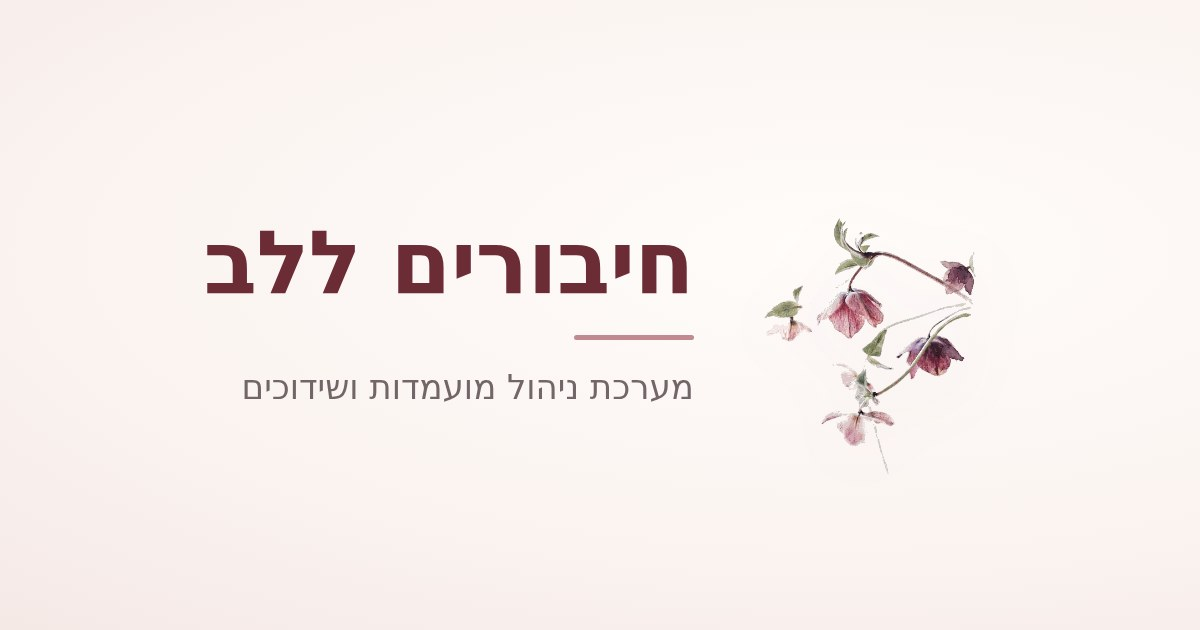
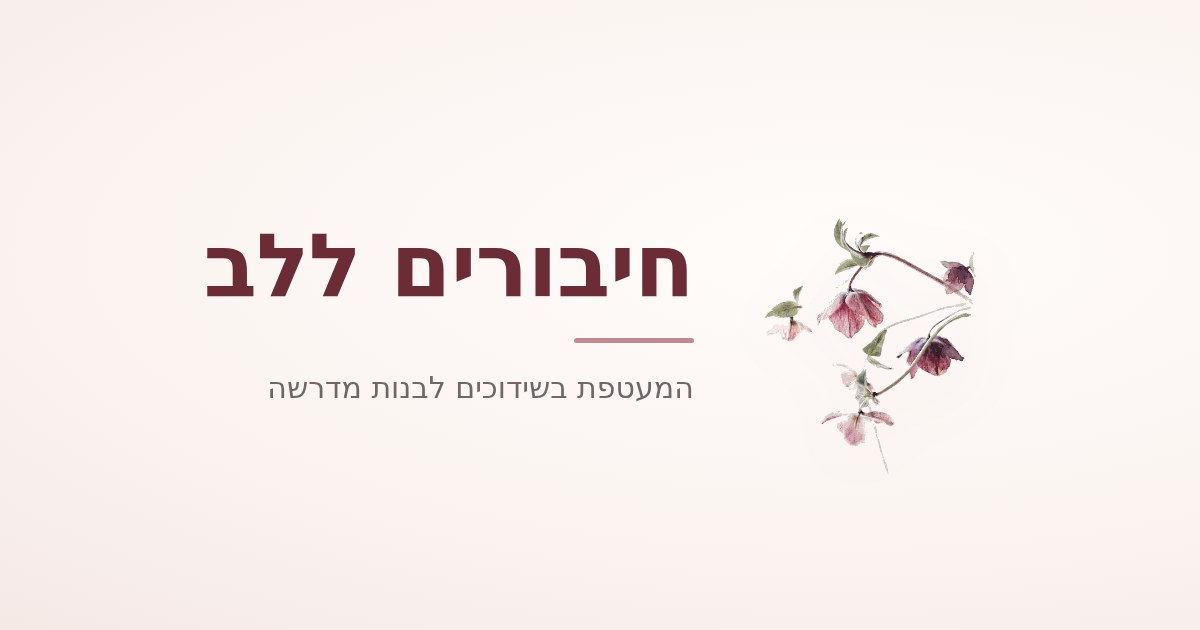
תת-כותרת חדשה, פרטי קבוצה בטופס, וכרטיסי בנות בגלילה לרוחב
1. תת-הכותרת "המעטפת בשידוכים לבנות מדרשה" בראש העמוד, ב-metadata
   ובתגי og/twitter של שני העמודים. תמונת השיתוף (og-image) נוצרה
   מחדש עם הטקסט החדש - היא תמונה, אז שינוי טקסט מחייב רינדור מחדש.

2. ראש הטופס החיצוני: שדה השגרירה הוחלף בפרטי זיהוי הקבוצה - שם
   המדרשה ומיקום, אשת קשר וטלפון. שלושתם חובה עם אותה ולידציה,
   כי בלעדיהם לקבוצה אין עוגן. הפרטים נשמרים על כל כרטיס שנשלח,
   ושם המדרשה משמש גם כשם הקבוצה - כך השיוך הקבוצתי, לוח הראיונות
   וה-PDF עובדים על הקבוצה מיד עם קליטתה, בלי שיוך ידני.

3. לוח הבקרה: הבנות מוצגות בגלילה לרוחב, ומעל כל קבוצה כותרת בולטת
   עם שם המדרשה והמיקום, אשת הקשר וטלפון עם חיוג/וואטסאפ/SMS.
   קבוצת "ללא קבוצה" נשארת בסוף כדי שאף מועמדת לא תיפול בין הכיסאות,
   ובנות שהצטרפו לאחרונה מסומנות בתגית "חדשה".
   פרטי הקבוצה נגזרים מהכרטיסים עצמם - אין אוסף נוסף ואין מיגרציה.

נבדק בדפדפן על נתוני דמה: 16 בדיקות עברו, אומתה גלילה אופקית בפועל
(1060px תוכן מול 430px מסך), אפס 404, אפס שגיאות קונסול ואפס שגיאות JS.

Claude-Session: https://claude.ai/code/session_016ePfyW6jUSUQKJZdwKT4DQ

diff --git a/components/AmbassadorForm.jsx b/components/AmbassadorForm.jsx
@@ -18,11 +18,18 @@ const FIELDS = [
   { key: "phone", label: "מספר טלפון", type: "tel", inputMode: "tel" },
 ];
 
+// פרטי הקבוצה שבראש הטופס - הם עוגנת הקבוצה שתחתיה נרשמות הבנות.
+const GROUP_FIELDS = [
+  { key: "midrasha", label: "שם המדרשה ומיקום", placeholder: "לדוגמה: מדרשת אור · ירושלים" },
+  { key: "contactName", label: "אשת קשר", placeholder: "שם מלא" },
+  { key: "contactPhone", label: "טלפון", type: "tel", inputMode: "tel" },
+];
+
 const DRAFT_KEY = `${STORAGE_PREFIX}ambassador_draft`;
 const blank = () => ({ uid: `g${Date.now()}${Math.random().toString(36).slice(2, 7)}` });
 
 export default function AmbassadorForm() {
-  const [ambassador, setAmbassador] = useState("");
+  const [group, setGroup] = useState({ midrasha: "", contactName: "", contactPhone: "" });
   const [girls, setGirls] = useState([blank()]);
   const [errors, setErrors] = useState({});
   const [sending, setSending] = useState(false);
@@ -37,7 +44,7 @@ export default function AmbassadorForm() {
         const d = JSON.parse(raw);
         if (d && Array.isArray(d.girls) && d.girls.length) {
           setGirls(d.girls);
-          setAmbassador(d.ambassador || "");
+          if (d.group) setGroup({ midrasha: "", contactName: "", contactPhone: "", ...d.group });
         }
       }
     } catch (e) {}
@@ -45,9 +52,9 @@ export default function AmbassadorForm() {
 
   useEffect(() => {
     try {
-      localStorage.setItem(DRAFT_KEY, JSON.stringify({ ambassador, girls }));
+      localStorage.setItem(DRAFT_KEY, JSON.stringify({ group, girls }));
     } catch (e) {}
-  }, [ambassador, girls]);
+  }, [group, girls]);
 
   function setField(i, key, value) {
     setGirls((g) => g.map((x, idx) => (idx === i ? { ...x, [key]: value } : x)));
@@ -81,6 +88,9 @@ export default function AmbassadorForm() {
 
   function validate() {
     const errs = {};
+    GROUP_FIELDS.forEach((f) => {
+      if (!String(group[f.key] || "").trim()) errs[`group:${f.key}`] = true;
+    });
     girls.forEach((g, i) => {
       AMBASSADOR_REQUIRED.forEach((k) => {
         if (!String(g[k] || "").trim()) errs[`${i}:${k}`] = true;
@@ -110,7 +120,11 @@ export default function AmbassadorForm() {
         phone: g.phone.trim(),
         photo: g.photo || "",
       }));
-      await addCandidatesFromAmbassador(payload, ambassador.trim());
+      await addCandidatesFromAmbassador(payload, {
+        midrasha: group.midrasha.trim(),
+        contactName: group.contactName.trim(),
+        contactPhone: group.contactPhone.trim(),
+      });
       try {
         localStorage.removeItem(DRAFT_KEY);
       } catch (e) {}
@@ -157,14 +171,34 @@ export default function AmbassadorForm() {
         </p>
       </div>
 
-      <div className="card mb-5">
-        <label className="field-label">שם השגרירה (לא חובה)</label>
-        <input
-          className="field-input"
-          value={ambassador}
-          onChange={(e) => setAmbassador(e.target.value)}
-          placeholder="כדי שנדע ממי הגיעו הכרטיסים"
-        />
+      <div className="card mb-5 space-y-4">
+        <div className="border-b border-sand pb-2">
+          <h2 className="font-bold text-brandDark">פרטי הקבוצה</h2>
+          <p className="text-xs text-ink/55">הבנות שיוזנו מטה ישויכו לקבוצה הזו.</p>
+        </div>
+        {GROUP_FIELDS.map((f) => {
+          const bad = !!errors[`group:${f.key}`];
+          return (
+            <div key={f.key} data-invalid={bad ? "true" : "false"}>
+              <label className="field-label">
+                {f.label} <span className="text-brand">*</span>
+              </label>
+              <input
+                className={`field-input ${bad ? "border-brand ring-2 ring-brand/20" : ""}`}
+                type={f.type || "text"}
+                inputMode={f.inputMode}
+                placeholder={f.placeholder || ""}
+                value={group[f.key] || ""}
+                onChange={(e) => {
+                  const v = e.target.value;
+                  setGroup((g) => ({ ...g, [f.key]: v }));
+                  setErrors((er) => (er[`group:${f.key}`] ? { ...er, [`group:${f.key}`]: false } : er));
+                }}
+              />
+              {bad && <p className="mt-1 text-sm font-medium text-brand">שדה חובה</p>}
+            </div>
+          );
+        })}
       </div>
 
       {girls.map((g, i) => (

diff --git a/components/GroupsBoard.jsx b/components/GroupsBoard.jsx
@@ -1,0 +1,82 @@
+"use client";
+
+import PhoneActions from "./PhoneActions";
+import { groupInfo } from "../lib/store";
+
+// לוח הבקרה: לכל קבוצה כותרת בולטת ונקייה - שם המדרשה והמיקום,
+// אשת הקשר והטלפון - ומתחתיה הבנות בגלילה לרוחב.
+const NO_GROUP = "__nogroup__";
+
+export default function GroupsBoard({ candidates, newIds, renderCard }) {
+  // קיבוץ הבנות לפי הקבוצה שאליה שויכו
+  const map = new Map();
+  candidates.forEach((c) => {
+    const key = c.group || NO_GROUP;
+    if (!map.has(key)) map.set(key, []);
+    map.get(key).push(c);
+  });
+
+  const groups = [...map.keys()]
+    .filter((k) => k !== NO_GROUP)
+    .sort((a, b) => a.localeCompare(b, "he"))
+    .map((name) => ({ key: name, info: groupInfo(name), list: map.get(name) }));
+
+  if (map.has(NO_GROUP)) {
+    groups.push({
+      key: NO_GROUP,
+      info: { midrasha: "ללא קבוצה", contactName: "", contactPhone: "" },
+      list: map.get(NO_GROUP),
+      plain: true,
+    });
+  }
+
+  if (groups.length === 0) {
+    return <p className="text-sm text-ink/40">אין עדיין מועמדות במאגר.</p>;
+  }
+
+  return (
+    <div className="space-y-7">
+      {groups.map(({ key, info, list, plain }) => (
+        <section key={key}>
+          {/* כותרת הקבוצה - בליטה נקייה מעל כרטיסיות הבנות */}
+          <div
+            className={`rounded-2xl px-4 py-3 ${
+              plain ? "bg-sand/50" : "border border-sand bg-parchment"
+            }`}
+          >
+            <div className="flex items-start justify-between gap-3">
+              <h2 className={`text-lg font-bold ${plain ? "text-ink/70" : "text-brandDark"}`}>
+                {info.midrasha}
+              </h2>
+              <span className="shrink-0 rounded-full bg-brand px-2.5 py-0.5 text-xs font-bold text-white">
+                {list.length}
+              </span>
+            </div>
+
+            {(info.contactName || info.contactPhone) && (
+              <div className="mt-2 flex flex-wrap items-center gap-x-3 gap-y-1.5">
+                {info.contactName && (
+                  <span className="text-sm font-semibold text-ink">{info.contactName}</span>
+                )}
+                {info.contactPhone && (
+                  <PhoneActions phone={info.contactPhone} name={info.contactName} small />
+                )}
+              </div>
+            )}
+          </div>
+
+          {/* הבנות בגלילה לרוחב */}
+          <div className="-mx-4 mt-3 overflow-x-auto px-4 pb-1">
+            <div className="flex w-max gap-3">
+              {list.map((c) => (
+                <div key={c.id} className="w-[248px] shrink-0">
+                  {renderCard(c, newIds.has(c.id))}
+                </div>
+              ))}
+            </div>
+          </div>
+        </section>
+      ))}
+    </div>
+  );
+}

diff --git a/lib/store.js b/lib/store.js
@@ -259,6 +259,20 @@ export async function assignCandidatesBulk(ids, patch) {
   logAction(`${ids.length} מועמדות — ${parts.join(" · ")}`);
 }
 
+// פרטי הקבוצה (מדרשה, אשת קשר, טלפון) נלקחים מהכרטיסים עצמם -
+// כל הבנות של אותה שליחה נושאות את אותם פרטים.
+export function groupInfo(name) {
+  const withInfo = cache.candidates.find(
+    (c) => c.group === name && (c.contactName || c.contactPhone || c.midrasha)
+  );
+  return {
+    name,
+    midrasha: withInfo?.midrasha || name,
+    contactName: withInfo?.contactName || "",
+    contactPhone: withInfo?.contactPhone || "",
+  };
+}
+
 // רשימת הקבוצות הקיימות במאגר, לפי מה שכבר שויך בפועל.
 export function existingGroups() {
   const names = new Set();
@@ -279,10 +293,18 @@ export async function saveInterviewSummary(id, text) {
   return res;
 }
 
-// קליטת מועמדות מהטופס החיצוני של השגרירה - כמה כרטיסים נפרדים בשליחה אחת.
-export async function addCandidatesFromAmbassador(list, ambassador) {
+// קליטת מועמדות מהטופס החיצוני - כמה כרטיסים נפרדים בשליחה אחת.
+// פרטי הקבוצה (מדרשה, אשת קשר וטלפון) נשמרים על כל כרטיס, ושם המדרשה
+// הוא גם שם הקבוצה - כך השיוך, לוח הראיונות ולוח הבקרה עובדים מיד.
+export async function addCandidatesFromAmbassador(list, groupInfo = {}) {
   await ensureAuth();
   const now = new Date().toISOString();
+  const meta = {
+    midrasha: groupInfo.midrasha || "",
+    contactName: groupInfo.contactName || "",
+    contactPhone: groupInfo.contactPhone || "",
+    group: groupInfo.midrasha || "",
+  };
   const refs = [];
   for (const c of list) {
     const ref = await addDoc(collection(db, col("candidates")), {
@@ -291,7 +313,7 @@ export async function addCandidatesFromAmbassador(list, ambassador) {
       sensitiveInfo: "",
       gender: "female",
       source: "ambassador",
-      ambassador: ambassador || "",
+      ...meta,
       ...c,
     });
     refs.push(ref);

diff --git a/components/CandidateCard.jsx b/components/CandidateCard.jsx
@@ -12,7 +12,7 @@ import { copyClean, downloadPdf } from "../lib/export";
 import { displayRep } from "../lib/store";
 
 // כרטיס מועמד: תצוגה מקוצרת + תצוגה מורחבת (טופס מלא).
-export default function CandidateCard({ candidate, reps, canEdit, canSeeSensitive, currentRepId, isAdmin = false, onUpdate, onDelete, selectable = false, selected = false, onToggleSelect }) {
+export default function CandidateCard({ candidate, reps, canEdit, canSeeSensitive, currentRepId, isAdmin = false, onUpdate, onDelete, selectable = false, selected = false, onToggleSelect, isNew = false }) {
   const [open, setOpen] = useState(false);
   const [editing, setEditing] = useState(false);
   const [copied, setCopied] = useState(false);
@@ -51,7 +51,14 @@ export default function CandidateCard({ candidate, reps, canEdit, canSeeSensitiv
             <div className="flex h-14 w-14 items-center justify-center rounded-2xl bg-parchment text-2xl">👤</div>
           )}
           <div className="min-w-0 flex-1">
-            <p className="truncate font-semibold text-ink">{candidate.fullName}</p>
+            <div className="flex items-center gap-1.5">
+              <p className="truncate font-semibold text-ink">{candidate.fullName}</p>
+              {isNew && (
+                <span className="shrink-0 rounded-full bg-sageSoft px-1.5 py-0.5 text-[10px] font-bold text-sage">
+                  חדשה
+                </span>
+              )}
+            </div>
             <p className="text-sm text-ink/60">
               {candidate.gender === "female" ? "בחורה" : "בחור"} · גיל {candidate.age}
             </p>

diff --git a/app/admin/page.jsx b/app/admin/page.jsx
@@ -10,7 +10,7 @@ import TasksPanel from "../../components/TasksPanel";
 import ShidduchQuestions from "../../components/ShidduchQuestions";
 import SchedulePanel from "../../components/SchedulePanel";
 import BulkAssignBar from "../../components/BulkAssignBar";
-import MidrashotBoard from "../../components/MidrashotBoard";
+import GroupsBoard from "../../components/GroupsBoard";
 import RepsManager from "../../components/RepsManager";
 import LogViewer from "../../components/LogViewer";
 import PopupEditor from "../../components/PopupEditor";
@@ -165,9 +165,10 @@ export default function AdminPage() {
 
 
   // רינדור אחיד של כרטיס מועמדת - כולל ההרשאות ומצב הסימון המרובה
-  function candidateCard(c) {
+  function candidateCard(c, isNew = false) {
     return (
       <CandidateCard
+        isNew={isNew}
         key={c.id}
         candidate={c}
         reps={data.reps}
@@ -258,12 +259,7 @@ export default function AdminPage() {
                 <div className="grid gap-3 sm:grid-cols-2">{searchResults.map((c) => candidateCard(c))}</div>
               </section>
             ) : (
-              <MidrashotBoard
-                candidates={viewableSorted}
-                reps={data.reps}
-                newIds={newIds}
-                renderCard={candidateCard}
-              />
+              <GroupsBoard candidates={viewableSorted} newIds={newIds} renderCard={candidateCard} />
             )}
           </div>
         )}

diff --git a/app/page.jsx b/app/page.jsx
@@ -10,7 +10,7 @@ export default function HomePage() {
       <div className="w-full max-w-md text-center">
         {/* לוגו נקי וללא רקע, ממורכז בראש העמוד */}
         <div className="mb-8 flex justify-center">
-          <Logo className="h-56 w-auto max-w-[70%]" withName tagline="מערכת ניהול מועמדות ושידוכים" />
+          <Logo className="h-56 w-auto max-w-[70%]" withName tagline="המעטפת בשידוכים לבנות מדרשה" />
         </div>
 
         <Link

diff --git a/app/layout.jsx b/app/layout.jsx
@@ -10,7 +10,7 @@ const OG_IMAGE = {
   alt: "חיבורים ללב",
   type: "image/jpeg",
 };
-const DESCRIPTION = "מערכת ניהול מועמדות ושידוכים";
+const DESCRIPTION = "המעטפת בשידוכים לבנות מדרשה";
 
 export const metadata = {
   metadataBase: new URL(SITE),
